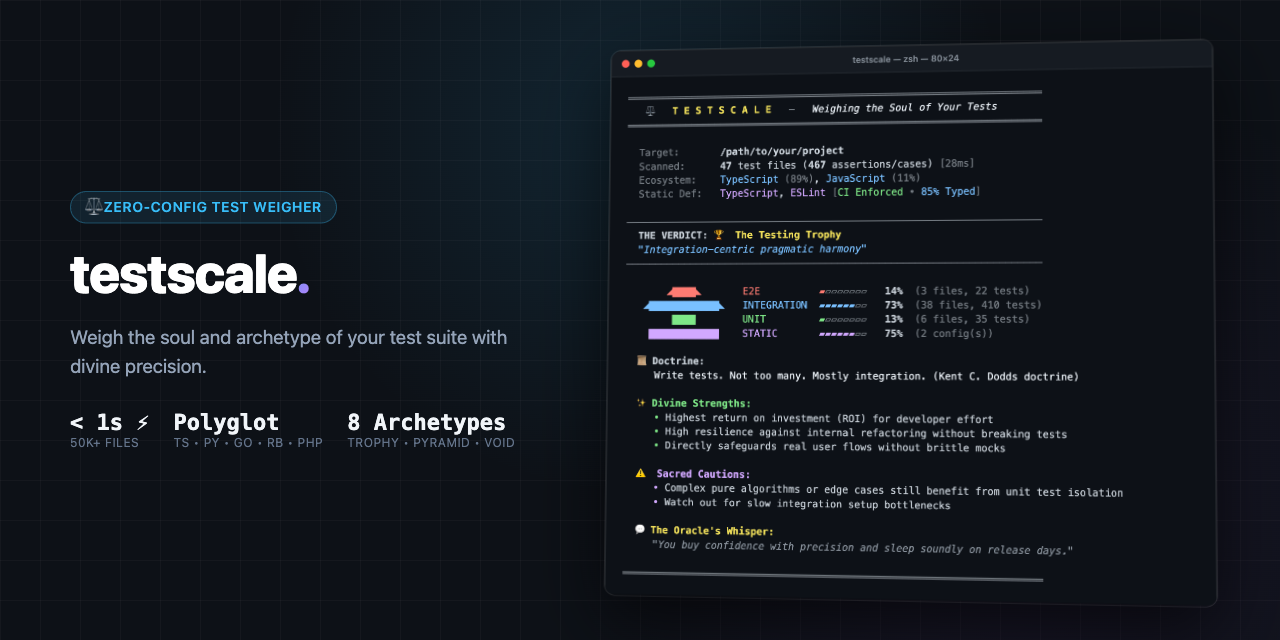
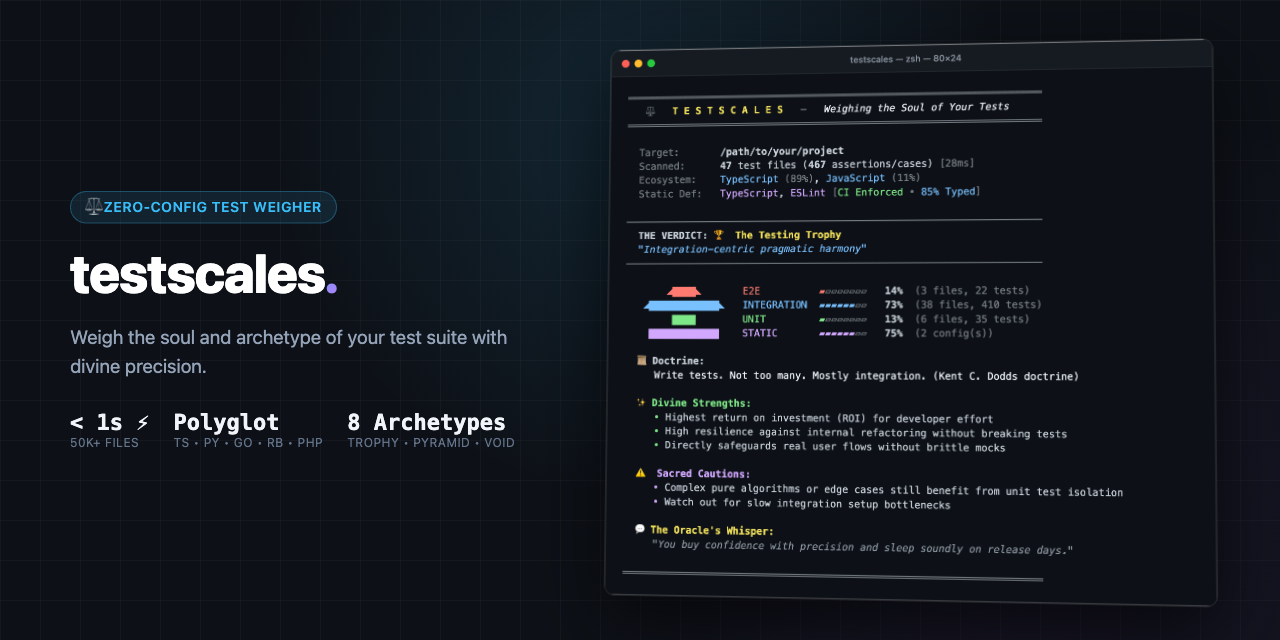
assets: update output-preview and ogp card with testscales plural branding

diff --git a/assets/ogp.html b/assets/ogp.html
@@ -123,7 +123,7 @@
   </div>
   <div class="right">
     <div class="preview-card">
-      <img src="/assets/output-preview.png" alt="Testscales Output">
+      <img src="./output-preview.png" alt="Testscales Output">
     </div>
   </div>
 </body>
